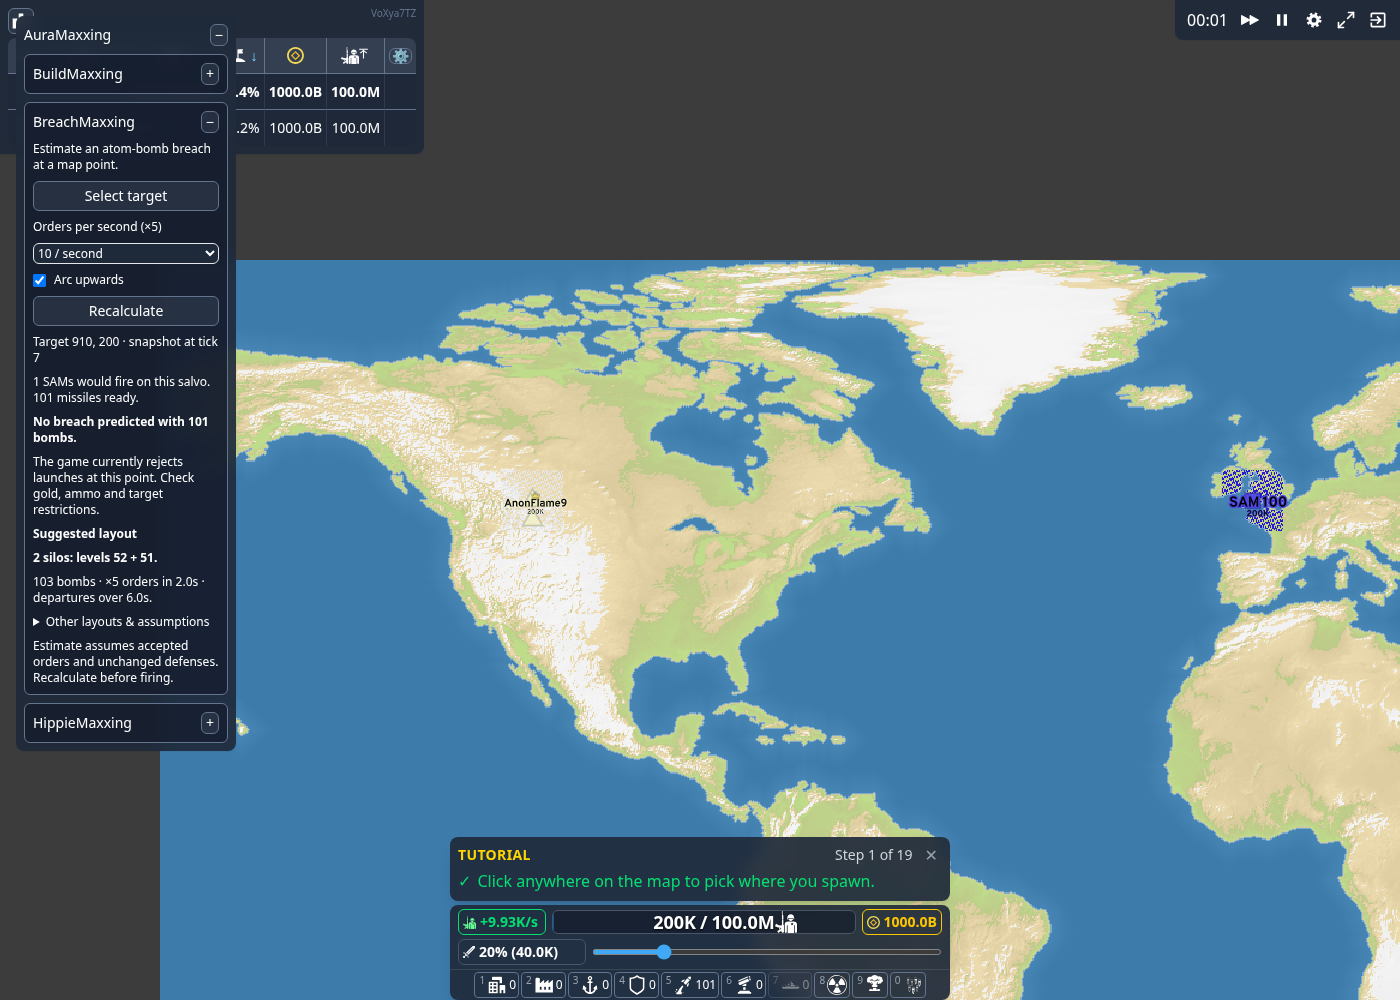
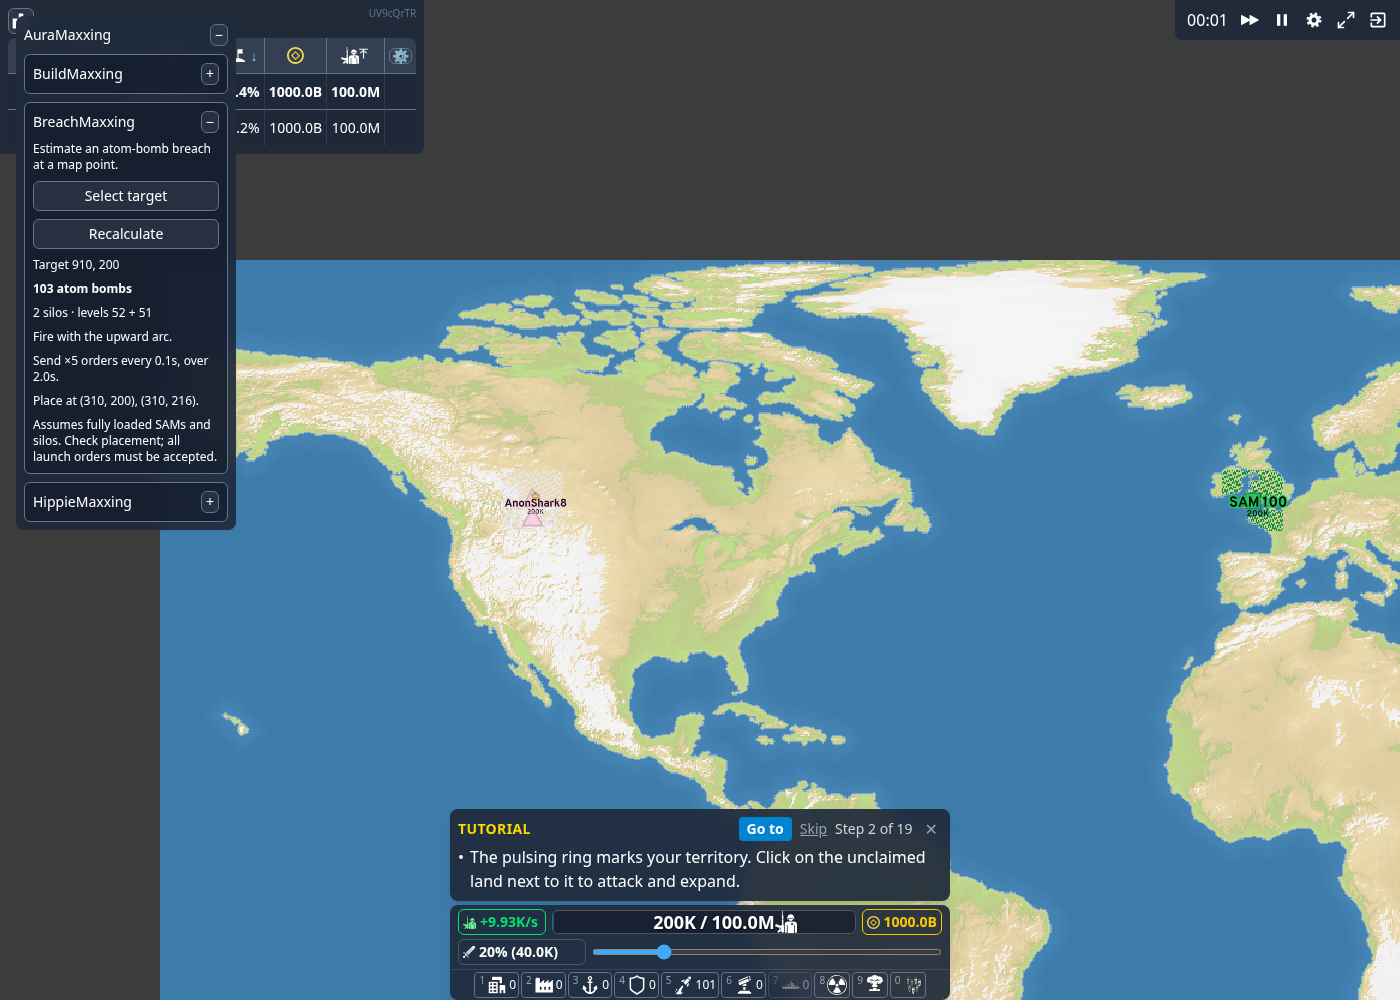
Simplify breach planner and assume fully loaded SAM defenses

diff --git a/src/features/breachMaxxing.js b/src/features/breachMaxxing.js
@@ -18,28 +18,18 @@ const feature = {
     body.innerHTML = `
       <p class="text-xs">Estimate an atom-bomb breach at a map point.</p>
       <button type="button" class="${buttonClass}" data-pick>Select target</button>
-      <label class="flex flex-col gap-2 text-xs">Orders per second (×5)
-        <select class="bg-gray-800 text-white border rounded-md" data-rate>
-          <option value="1">10 / second</option><option value="2">5 / second</option>
-          <option value="5">2 / second</option><option value="10">1 / second</option>
-        </select>
-      </label>
-      <label class="flex items-center gap-2 text-xs"><input type="checkbox" data-direction checked>Arc upwards</label>
       <button type="button" class="${buttonClass}" data-refresh disabled>Recalculate</button>
       <p class="text-xs" role="status" aria-live="polite" data-status>Select a target to calculate.</p>
       <div class="flex flex-col gap-2 text-xs" data-result></div>`;
     const pick = body.querySelector("[data-pick]");
     const refresh = body.querySelector("[data-refresh]");
-    const rate = body.querySelector("[data-rate]");
-    const direction = body.querySelector("[data-direction]");
     const status = body.querySelector("[data-status]");
     const output = body.querySelector("[data-result]");
-    let destination = output;
     const line = (text, bold = false) => {
       const p = document.createElement("p");
       if (bold) p.className = "font-bold";
       p.textContent = text;
-      destination.appendChild(p);
+      output.appendChild(p);
     };
     const run = async (select) => {
       controller?.abort();
@@ -47,7 +37,6 @@ const feature = {
       controller = runController;
       const { signal } = runController;
       output.replaceChildren();
-      destination = output;
       try {
         let snapshot;
         if (select) {
@@ -83,92 +72,39 @@ const feature = {
             "Select an enemy or unowned target. Alliance changes are not simulated.";
           return;
         }
-        status.textContent = "Calculating trajectories and SAM reloads…";
+        status.textContent = "Finding a breach plan…";
         pick.textContent = "Select another target";
-        const result = await api.breach.calculate(snapshot, {
-          gap: Number(rate.value),
-          directionUp: direction.checked,
-          signal,
-        });
+        const result = await api.breach.calculate(snapshot, { signal });
         if (signal.aborted) return;
         if (result.status === "no-silos") {
           status.textContent =
             "Build a missile silo first; its position defines the launch route.";
           return;
         }
-        status.textContent = `Target ${snapshot.target.x}, ${snapshot.target.y} · snapshot at tick ${snapshot.tick}`;
-        const current = result.current;
-        const engaged = current.shots.filter((s) => s.shots > 0);
-        line(
-          `${engaged.length} SAMs would fire on this salvo. ${result.ready} missiles ready.`,
-        );
-        line(
-          current.breached
-            ? `Estimated breach: ${current.bombs} atom bombs.`
-            : `No breach predicted with ${current.launched} bombs.`,
-          true,
-        );
-        if (current.breached) {
+        status.textContent = `Target ${snapshot.target.x}, ${snapshot.target.y}`;
+        if (result.status === "not-found") {
           line(
-            `Send ×5 orders over ${seconds(current.orderSeconds)}. Departures span ${seconds(current.departureSeconds)}.`,
+            `No plan found within 5 silos and ${result.maxBombs} bombs. Try another launch location.`,
           );
-          if (snapshot.bombCost !== null) {
-            const cost = BigInt(snapshot.bombCost) * BigInt(current.bombs);
-            line(
-              `Bomb cost: ${cost.toLocaleString("en-US")} gold${cost > BigInt(snapshot.gold) ? " — not enough gold" : ""}.`,
-            );
-          }
+          return;
         }
-        if (!snapshot.canLaunch)
-          line(
-            "The game currently rejects launches at this point. Check gold, ammo and target restrictions.",
-          );
-        const plans = result.recommendations.filter((r) => r.plan);
-        line("Suggested layout", true);
-        if (!plans.length)
-          line(`None found within ${result.maxBombs} bombs and 5 silos.`);
-        const best = plans[0];
-        if (best) {
-          const { silos, plan } = best;
-          line(
-            `${silos} silo${silos === 1 ? "" : "s"}: levels ${plan.levels.join(" + ")}.`,
-            true,
-          );
-          line(
-            `${plan.bombs} bombs · ×5 orders in ${seconds(plan.orderSeconds)} · departures over ${seconds(plan.departureSeconds)}.`,
-          );
-        }
-        const details = document.createElement("details");
-        details.innerHTML =
-          '<summary class="cursor-pointer">Other layouts & assumptions</summary>';
-        output.appendChild(details);
-        destination = document.createElement("div");
-        destination.className = "flex flex-col gap-2 mt-2";
-        details.appendChild(destination);
-        for (const { silos, plan } of plans.slice(1)) {
-          line(
-            `${silos} silos: ${plan.levels.join(" + ")} → ${plan.bombs} bombs; orders in ${seconds(plan.orderSeconds)}.`,
-          );
-        }
-        if (!result.recommendations[0].plan)
-          line(`One silo: no breach found up to level ${result.maxBombs}.`);
+        const { plan } = result;
+        line(`${plan.bombs} atom bomb${plan.bombs === 1 ? "" : "s"}`, true);
         line(
-          `Layouts start at ${result.anchor.x}, ${result.anchor.y}, then extend south every ${snapshot.rules.structureSpacing} tiles. Fully loaded; check ownership and space before building.`,
+          `${plan.levels.length} silo${plan.levels.length === 1 ? "" : "s"} · levels ${plan.levels.join(" + ")}`,
+        );
+        line(`Fire with the ${plan.directionUp ? "upward" : "downward"} arc.`);
+        line(
+          plan.bombs <= 5
+            ? "Send one order."
+            : `Send ×5 orders every ${seconds(plan.orderIntervalSeconds)}, over ${seconds(plan.orderSeconds)}.`,
         );
         line(
-          `Smallest levels found for these balanced layouts, capped at ${result.maxBombs} bombs. Other placements can differ.`,
+          `Place at ${plan.positions.map((p) => `(${p.x}, ${p.y})`).join(", ")}.`,
         );
         line(
-          `SAM levels firing: ${engaged.map((s) => snapshot.sams.find((sam) => sam.id === s.id).level).join(" + ") || "none"}.`,
+          "Assumes fully loaded SAMs and silos. Check placement; all launch orders must be accepted.",
         );
-        destination = output;
-        line(
-          "Estimate assumes accepted orders and unchanged defenses. Recalculate before firing.",
-        );
-        if (snapshot.inFlight)
-          line(
-            `${snapshot.inFlight} missiles in flight are excluded; the battle may change the result.`,
-          );
       } catch (error) {
         if (signal.aborted) return;
         console.warn(
@@ -194,16 +130,6 @@ const feature = {
     refresh.addEventListener("click", () => {
       if (lastTarget) void run(false);
     });
-    const changed = () => {
-      controller?.abort();
-      controller = null;
-      pick.textContent = "Select target";
-      output.replaceChildren();
-      status.textContent =
-        "Settings changed. Recalculate to update the estimate.";
-    };
-    rate.addEventListener("change", changed);
-    direction.addEventListener("change", changed);
     removeSection = addSection({ id: feature.id, title: feature.name, body });
   },
   disable() {

diff --git a/src/api/breachModel.js b/src/api/breachModel.js
@@ -226,61 +226,23 @@ export function simulate(snapshot, bombs) {
 }
 
 const pause = () => new Promise((resolve) => setTimeout(resolve, 0));
-export async function calculate(
-  snapshot,
-  { gap = 1, directionUp = true, signal } = {},
-) {
+export async function calculate(snapshot, { signal } = {}) {
+  signal?.throwIfAborted();
   const silos = snapshot.silos.filter((s) => !s.underConstruction);
   if (!silos.length) return { status: "no-silos" };
   const anchor = [...silos].sort(
     (a, b) => manhattan(a, snapshot.target) - manhattan(b, snapshot.target),
   )[0];
-  const ready = silos.reduce(
-    (sum, s) => sum + Math.max(0, s.level - s.queue.length),
-    0,
-  );
-  const maxBombs = 300;
-  const check = (sources, count) => {
-    signal?.throwIfAborted();
-    const bombs = makeSalvo(snapshot, sources, count, gap, directionUp);
-    const result = simulate(snapshot, bombs);
-    return {
-      ...result,
-      bombs: count,
-      launched: bombs.length,
-      orderSeconds:
-        (Math.max(0, Math.ceil(count / 5) - 1) *
-          gap *
-          snapshot.rules.msPerTick) /
-        1000,
-      departureSeconds: bombs.length
-        ? ((Math.max(...bombs.map((b) => b.firstMotion)) -
-            Math.min(...bombs.map((b) => b.firstMotion))) *
-            snapshot.rules.msPerTick) /
-          1000
-        : 0,
-    };
+  const defense = {
+    ...snapshot,
+    sams: snapshot.sams.map((s) => ({ ...s, queue: [], upgrade: null })),
   };
-  const current = check(silos, Math.min(ready, maxBombs));
-  if (current.breached) {
-    let low = 1,
-      high = Math.min(ready, maxBombs);
-    while (low < high) {
-      const mid = Math.floor((low + high) / 2);
-      if (check(silos, mid).breached) high = mid;
-      else low = mid + 1;
-      await pause();
-    }
-    Object.assign(current, check(silos, low));
-  }
-  const recommendations = [];
-  // These are balanced, adjacent layouts at the closest silo, not arbitrary
-  // placements. Keeping that constraint explicit avoids a false global minimum.
+  const maxBombs = 300;
+  const gap = 1;
   for (let number = 1; number <= 5; number++) {
-    let found = null;
-    for (let total = 1; total <= maxBombs; total++) {
-      if (total < number) continue;
-      const hypothetical = Array.from({ length: number }, (_, i) => ({
+    for (let total = number; total <= maxBombs; total++) {
+      signal?.throwIfAborted();
+      const sources = Array.from({ length: number }, (_, i) => ({
         ...anchor,
         id: `planned-${i}`,
         level: Math.floor(total / number) + (i < total % number ? 1 : 0),
@@ -288,29 +250,30 @@ export async function calculate(
         x: anchor.x,
         y: anchor.y + i * snapshot.rules.structureSpacing,
       }));
-      if (hypothetical.some((s) => s.y >= snapshot.rules.height)) break;
-      const result = check(hypothetical, total);
-      if (result.breached) {
-        found = {
-          ...result,
-          levels: hypothetical.map((s) => s.level),
-          positions: hypothetical.map((s) => ({ x: s.x, y: s.y })),
-        };
-        break;
+      if (sources.some((s) => s.y >= snapshot.rules.height)) break;
+      for (const directionUp of [true, false]) {
+        const bombs = makeSalvo(defense, sources, total, gap, directionUp);
+        const outcome = simulate(defense, bombs);
+        if (outcome.breached)
+          return {
+            status: "ready",
+            anchor,
+            maxBombs,
+            plan: {
+              bombs: total,
+              levels: sources.map((s) => s.level),
+              positions: sources.map((s) => ({ x: s.x, y: s.y })),
+              directionUp,
+              orderIntervalSeconds: (gap * snapshot.rules.msPerTick) / 1000,
+              orderSeconds:
+                ((Math.ceil(total / 5) - 1) * gap * snapshot.rules.msPerTick) /
+                1000,
+            },
+          };
       }
       if (total % 8 === 0) await pause();
     }
-    recommendations.push({ silos: number, plan: found });
     await pause();
   }
-  return {
-    status: "ready",
-    current,
-    recommendations,
-    ready,
-    maxBombs,
-    anchor,
-    gap,
-    directionUp,
-  };
+  return { status: "not-found", maxBombs };
 }

diff --git a/test/breachModel.test.js b/test/breachModel.test.js
@@ -90,11 +90,25 @@ assert.ok(
   ),
 );
 const result = await calculate(snapshot);
-assert.equal(result.current.breached, false);
-assert.equal(result.recommendations[0].plan, null);
-assert.deepEqual(result.recommendations[1].plan.levels, [52, 51]);
-assert.deepEqual(result.recommendations[2].plan.levels, [34, 34, 33]);
-assert.equal(result.recommendations[2].plan.orderSeconds, 2);
+assert.deepEqual(result.plan.levels, [52, 51]);
+assert.equal(result.plan.bombs, 103);
+assert.equal(result.plan.orderSeconds, 2);
+const depleted = {
+  ...snapshot,
+  sams: snapshot.sams.map((s) => ({
+    ...s,
+    queue: Array(100).fill(0),
+    upgrade: { start: 0, end: 45, from: 70 },
+  })),
+};
+assert.deepEqual(await calculate(depleted), result);
+assert.equal(depleted.sams[0].queue.length, 100);
+const arcChoice = await calculate({
+  ...snapshot,
+  sams: [{ id: 4, x: 300, y: 300, level: 1, range: 70, queue: [] }],
+});
+assert.equal(arcChoice.plan.bombs, 1);
+assert.equal(arcChoice.plan.directionUp, false);
 assert.equal((await calculate({ ...snapshot, silos: [] })).status, "no-silos");
 await assert.rejects(calculate(snapshot, { signal: AbortSignal.abort() }), {
   name: "AbortError",

diff --git a/docs/breach-maxxing.md b/docs/breach-maxxing.md
@@ -1,29 +1,28 @@
 # BreachMaxxing
 
-Read-only atom-bomb calculator. Select a point, choose the ×5 order cadence and
-arc direction, then recalculate when the battle changes. No builds or launch
-intents are sent.
+Read-only atom-bomb calculator. Select a target to get one sufficient hypothetical
+configuration, its launch direction, positions and timing. Recalculate when the
+positions or levels change. No builds or launch intents are sent.
 
-The calculator snapshots the current game configuration, silo positions and
-ammunition queues, hostile SAM positions, levels, upgrade ranges and independent
-reload timers. It reproduces the fixed-point trajectory, nearest-silo selection,
-per-silo departure spacing and SAM targeting windows. Overlapping SAMs reserve
-targets so the same bomb is not counted twice. A successful SAM reservation is
-assumed to intercept; interference with the interceptor itself is not modeled.
+Both upward and downward arcs are tested automatically. The search prioritizes
+fewer silos, then fewer bombs; an upward arc wins ties. It tests one through five
+fully loaded silos with balanced levels and at most 300 bombs. Layouts start at
+the closest existing silo and extend south at the game's minimum spacing plus
+one tile. Bounds are checked; ownership, terrain and build space need checking.
+No failed layouts or current-ammunition verdicts are displayed.
 
-The result is an estimate assuming all orders arrive at the selected cadence.
-Server drops, other attacks, new construction, ownership changes and alliance
-changes can invalidate it. Existing missiles in flight are disclosed but excluded.
-A target owned by a friendly player is unsupported. Gold and current launch
-availability are displayed separately from the trajectory result.
+Every hostile SAM starts fully loaded at its level's full range, regardless of
+its current reload or upgrade progress. SAMs still reload during the simulated
+salvo: assuming full initial ammo does not disable their normal recovery.
+The fixed-point trajectories, nearest-silo selection, per-silo departure spacing
+and SAM targeting windows follow the game. Overlapping SAMs reserve targets to
+avoid counting a bomb twice. A reserved interception is assumed successful.
 
-The layout search tests one through five fully loaded silos, balanced levels,
-and at most 300 bombs. It starts at the closest existing silo and places the
-others south of it at the game's minimum structure spacing plus one tile. Map
-bounds are checked; ownership, terrain and build space still need checking.
-The displayed minimum is only within that layout family and search bound.
-It is not a global minimum across arbitrary positions. A failed bounded search
-does not imply the target can never be breached.
+The plan uses one ×5 order per tick (currently 100 ms) and assumes every order is
+accepted. Existing missiles, other attacks, new construction and alliance changes
+are excluded. The minimum is within the tested layout family, not across all
+possible positions. Failure within the search bound does not mean no breach is
+possible.
 
 ## Verification
 
@@ -45,8 +44,7 @@ isolated-world boundary. A real extension reload is required for that last check
 
 ## Screenshots
 
-Same local fixture and 1400 × 1000 viewport. The startup launch restriction is
-shown separately from the calculated breach estimate. The three units remain
+Same local fixture and 1400 × 1000 viewport. The three units remain
 unchanged after selecting the target; the extension logs no runtime errors.
 
 ![Without AuraMaxxing](images/breach-before.png)
